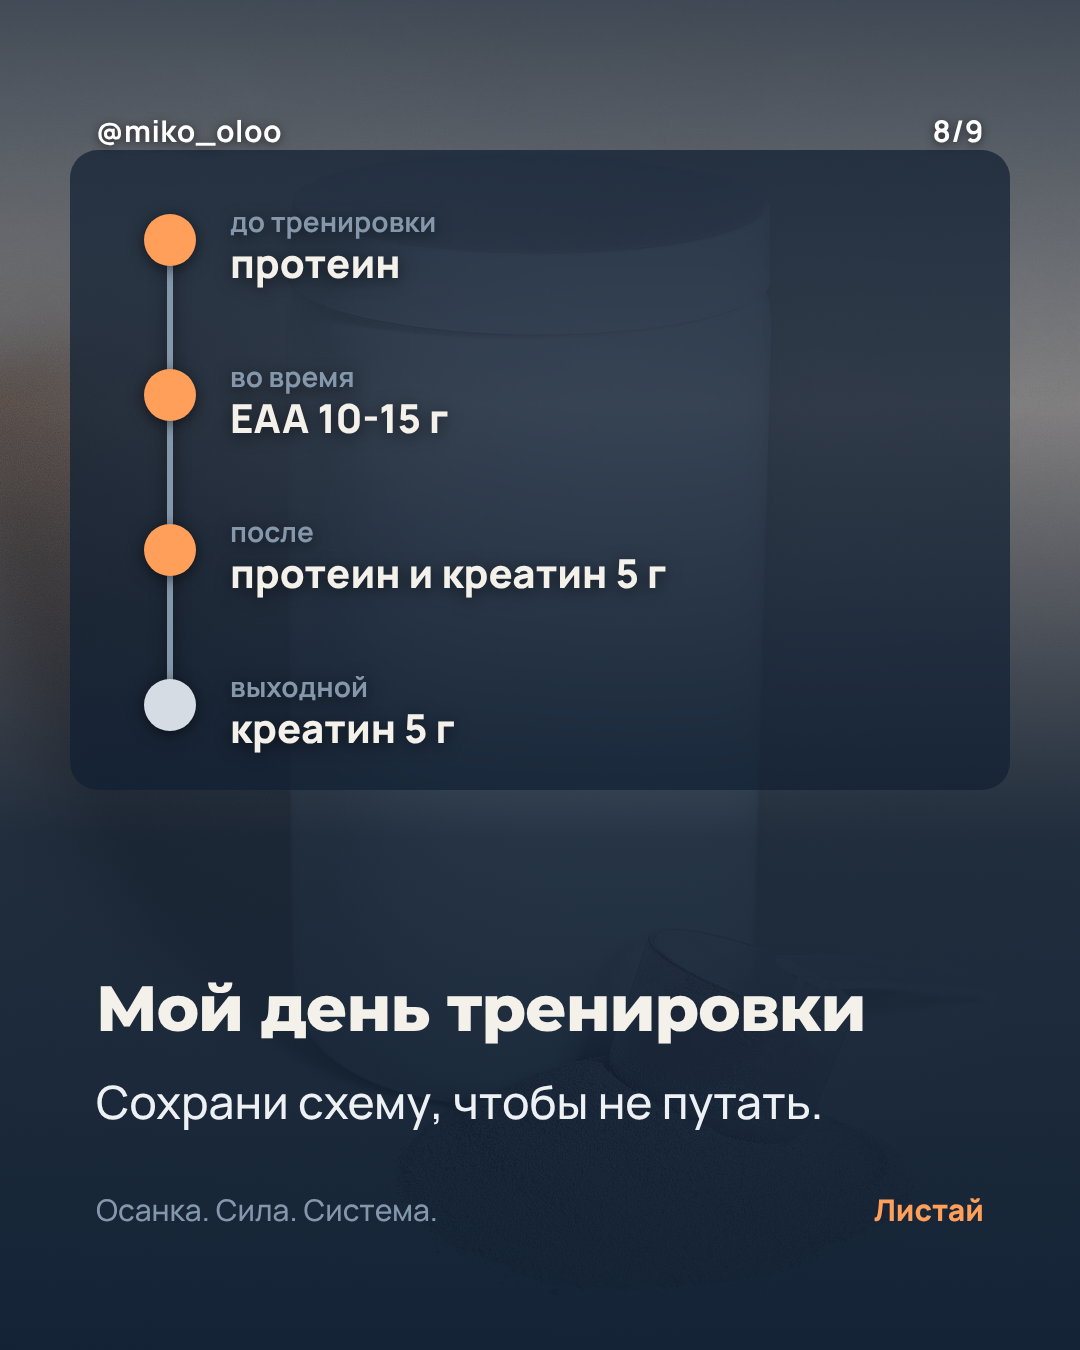
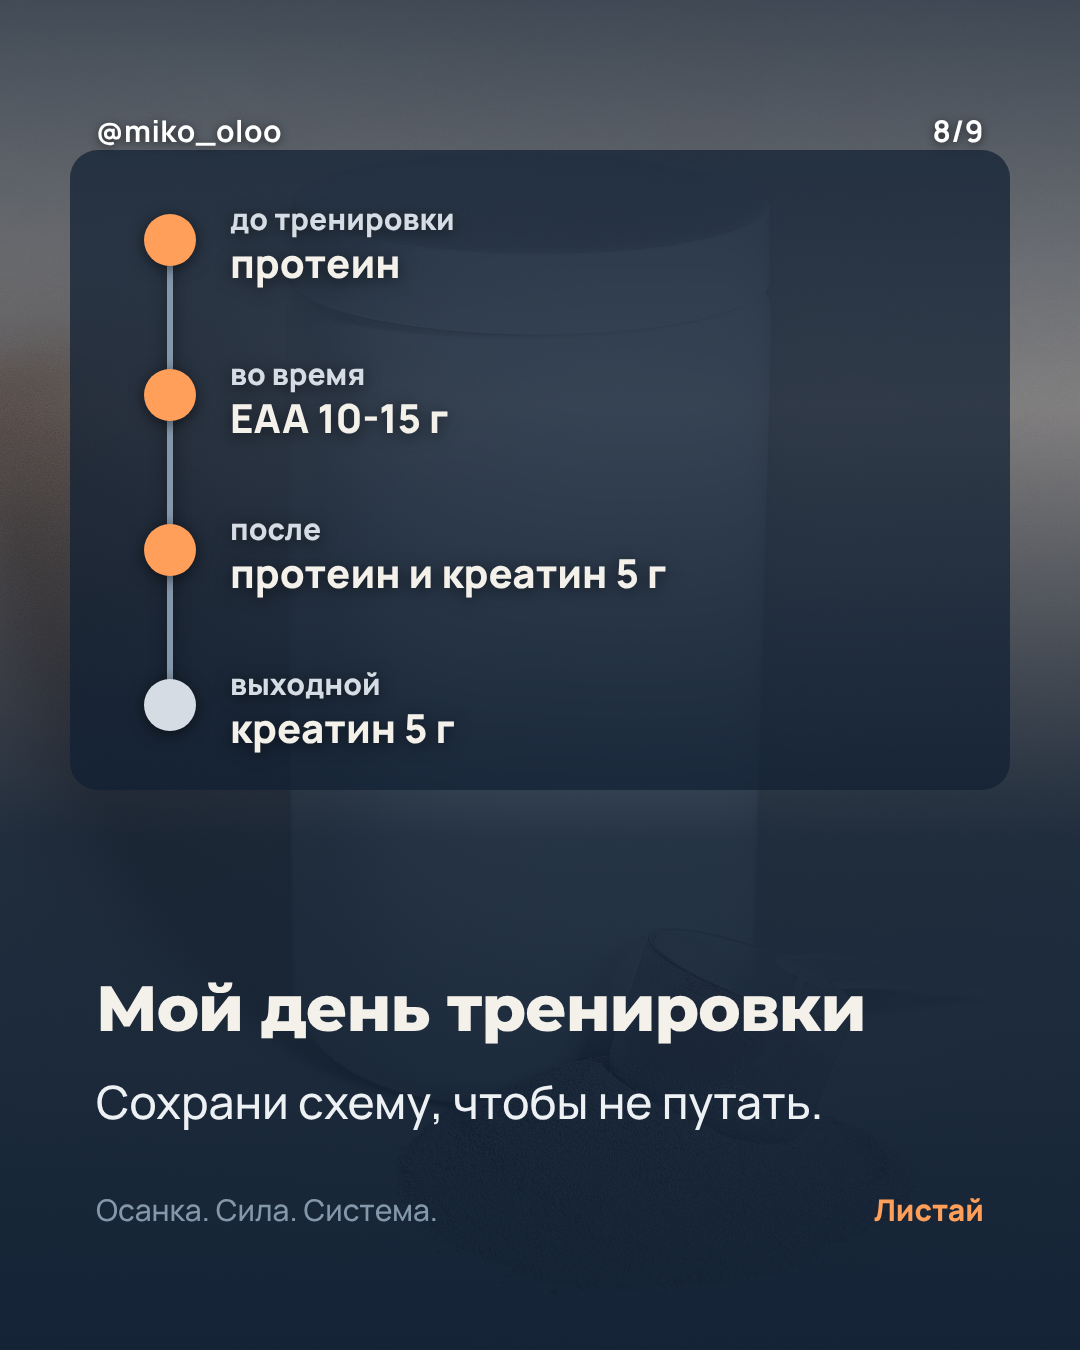
c6/08: подписи этапов 30 px; сводки каруселей для проверки
Claude-Session: https://claude.ai/code/session_014b6iEBjPGyacsH4fnBbVwQ

diff --git a/content/carousels/build_18-11.py b/content/carousels/build_18-11.py
@@ -272,7 +272,7 @@ def c6():
     tlp = [panel(70, 150, 940, 640), line(170, 230, 170, 710, MUTED, 6)]
     for i, (lab, val) in enumerate([('до тренировки', 'протеин'), ('во время', 'EAA 10-15 г'), ('после', 'протеин и креатин 5 г'), ('выходной', 'креатин 5 г')]):
         y = 240 + i * 155
-        tlp += [dot(170, y, 26, A if i < 3 else SOFT), text(230, y - 8, lab, 28, MUTED, 700), text(230, y + 38, val, 40, TXT, 800)]
+        tlp += [dot(170, y, 26, A if i < 3 else SOFT), text(230, y - 10, lab, 30, SOFT, 800), text(230, y + 38, val, 40, TXT, 800)]
     day = svg(W, F, *tlp)
     return [
         {'layout': 'photo-top', 'photoHeight': 66, 'big': True, 'photo': 'src/c6_cover.jpg', 'focus': '50% 8%',
